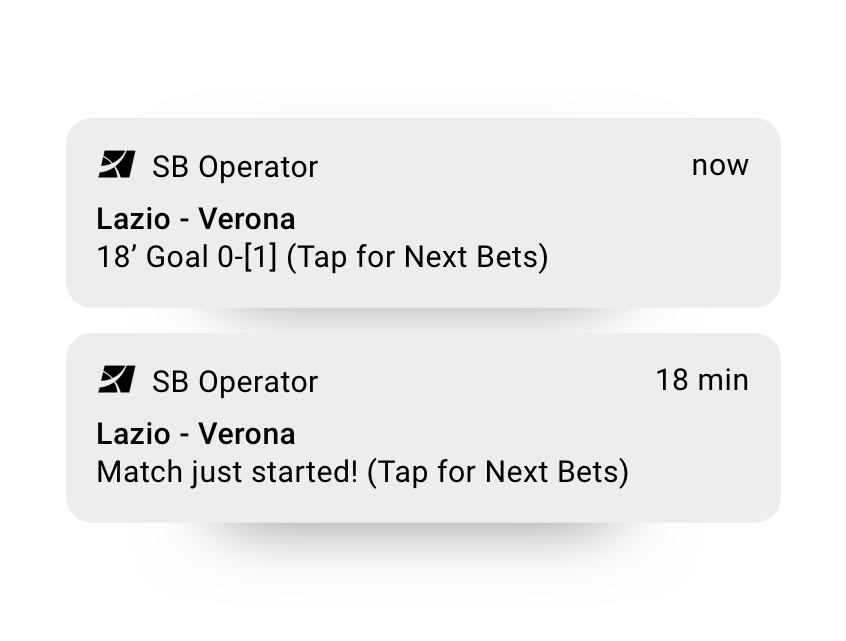
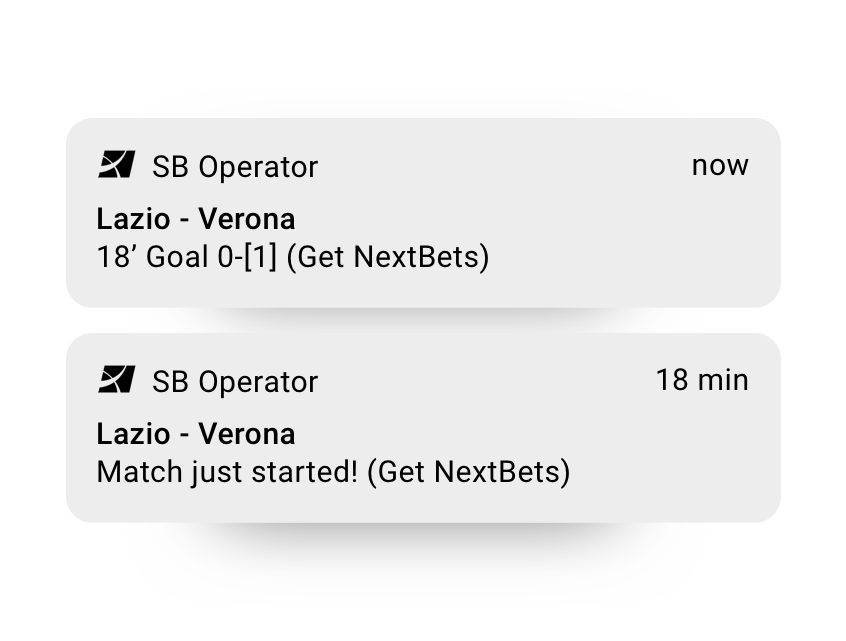
styling

Changed region(s): [[0.3381, 0.3744, 0.6454, 0.4368], [0.4303, 0.7176, 0.7683, 0.78]]

diff --git a/index.html b/index.html
@@ -26,6 +26,14 @@
 
 <body>
 
+    <div class="d-none d-lg-block" style="position: fixed;
+    bottom: 4px;
+    right: 14px;
+    z-index: 10000;
+    padding-left: 22px;">
+        <a target="_blank" href="https://sbcevents.com/sbc-digital-summit-north-america"><img src="img/premiumsponsor.png"></a>
+    </div>
+
 
     <!-- banner -->
     <div class="jumbotron jumbotron-fluid" id="banner" style="background-image: url(img/banner-bk.jpg);">
@@ -43,19 +51,20 @@
             </header>
 
             <div class="row">
-                <div class="col-4 d-none d-sm-none d-md-block">
-                    <img src="img/main-img.png" class="mx-auto" style="margin-top: 3rem"/>
+                <div class="col-4 d-none d-lg-block">
+                    <img src="img/main-img.png" class="mx-auto"/>
                 </div>
                 <div class="col-lg-8 col-sm-12" style="max-width: 43rem;">
-                    <h1 class="display-4 text-white font-weight-bold mt-5" style="">
+                    <h1 class="headline-text text-center display-4 text-white font-weight-bold mt-5">
                     Connecting betting and live score to drive turnover and conversion
                     </h1>
-                    <p class="lead text-white my-4">
+                    <p class="text-center lead text-white my-4">
                        Relevant live score messaging, personalised betting suggestions and easy integration.
                     </p>
-                    <a target="_blank" href="https://drive.google.com/file/d/1_6kUU497nrbmaGctgstBI7bNaH8xvxad/view?usp=sharing" class="btn font-weight-bold atlas-cta atlas-cta-wide cta-yellow my-3" style="max-width: 280px">Product brief (PDF)</a>
+                    <div class="d-flex justify-content-center">
+                        <a style="max-width: 350px" target="_blank" href="https://drive.google.com/file/d/1y-Ltr64LCl2HWstJy5f2pGoZ0jcCdKzF/view?usp=sharing"><img src="img/cta.png"></a>
+                    </div>
 
-                    <a target="_blank" href="https://drive.google.com/file/d/1y-Ltr64LCl2HWstJy5f2pGoZ0jcCdKzF/view?usp=sharing" class="btn font-weight-bold atlas-cta atlas-cta-wide cta-black my-3" style="max-width: 280px">Triggy enters the US market!</a>
                 </div>
 
             </div>
@@ -93,6 +102,9 @@
         <div class="container">
             <h2 class="text-center font-weight-bold mt-5 mb-3">Product offering</h2>
             <p class="text-center mb-5">Enhance your sportsbook with notifications, NextBets, live score widgets.</a></p>
+            <div class="d-flex justify-content-center">
+                <a target="_blank" href="https://drive.google.com/file/d/1_6kUU497nrbmaGctgstBI7bNaH8xvxad/view?usp=sharing" class="text-center btn font-weight-bold atlas-cta atlas-cta-wide cta-yellow" style="max-width: 280px; margin:0 auto">Get product brief</a>
+            </div>
         </div>
     </div>
 
@@ -123,8 +135,8 @@
 
          <div id="p-nextbets" class="row product-div product-div-header">
             <div class="col-12">
-                <h3 class="font-weight-bold">Next Bets</h3>
-                <p>Next Bets are engaging and relevant bet suggestions based on events in the match and player betting history.</p>
+                <h3 class="font-weight-bold">NextBets</h3>
+                <p>NextBets are engaging and relevant bet suggestions based on events in the match and player betting history.</p>
             </div>
         </div>
         <div class="row product-div">
@@ -144,15 +156,15 @@
             <div class="col-md-6 pb-sm-2 text-center">
                 <img src="img/usp4.png" class="mx-auto">
                 <p class="font-weight-bold my-0 px-4">When to use it?</p>
-                <p class="px-4">Next Bets can be utilised in many different ways such as marketing material and notifications.</p>
+                <p class="px-4">NextBets can be utilised in many different ways such as marketing material and notifications.</p>
             </div>
             <div class="col-sm-12 d-md-none">
                 <hr>
             </div>
             <div class="col-md-6 text-center">
                 <img src="img/usp5.png" class="mx-auto">
-                <p class="font-weight-bold my-0 px-4">Next Bets as a service</p>
-                <p class="px-4">Next Bets is offered as an API service that can be purchased seperately from Triggy.
+                <p class="font-weight-bold my-0 px-4">NextBets as a service</p>
+                <p class="px-4">NextBets is offered as an API service that can be purchased seperately from Triggy.
                 </p>
             </div>
         </div>

diff --git a/css/custom.css b/css/custom.css
@@ -1,3 +1,5 @@
+
+
 /********** common setting **********/
 body {
     max-width: 100%;
@@ -97,9 +99,18 @@ p a {
     background-size: cover;
 }
 
+#banner h1 {
+    font-size: 3rem;
+}
+
+#banner p {
+    font-size: 1.8rem;
+}
+
 /********** banner **********/
 header {
     overflow: hidden;
+    margin-bottom: 40px;
 }
 
 header img {
@@ -243,8 +254,16 @@ ul {
 /********** RWD **********/
 @media (max-width: 575px) {
     #banner h1 {
-        font-size: 2.6rem;
-        line-height: 3.9rem!important;
+        font-size: 1.8rem;
+    }
+
+    #banner p {
+        font-size: 1rem;
+    }
+
+    #banner {
+        padding-bottom: 5rem;
+        padding-bottom: 5rem;
     }
 
     .product-div {
@@ -261,6 +280,10 @@ ul {
     .product-text-content {
         text-align: center;
 
+    }
+
+    .headline-text{
+        font-size: 1rem;
     }
     
 }
